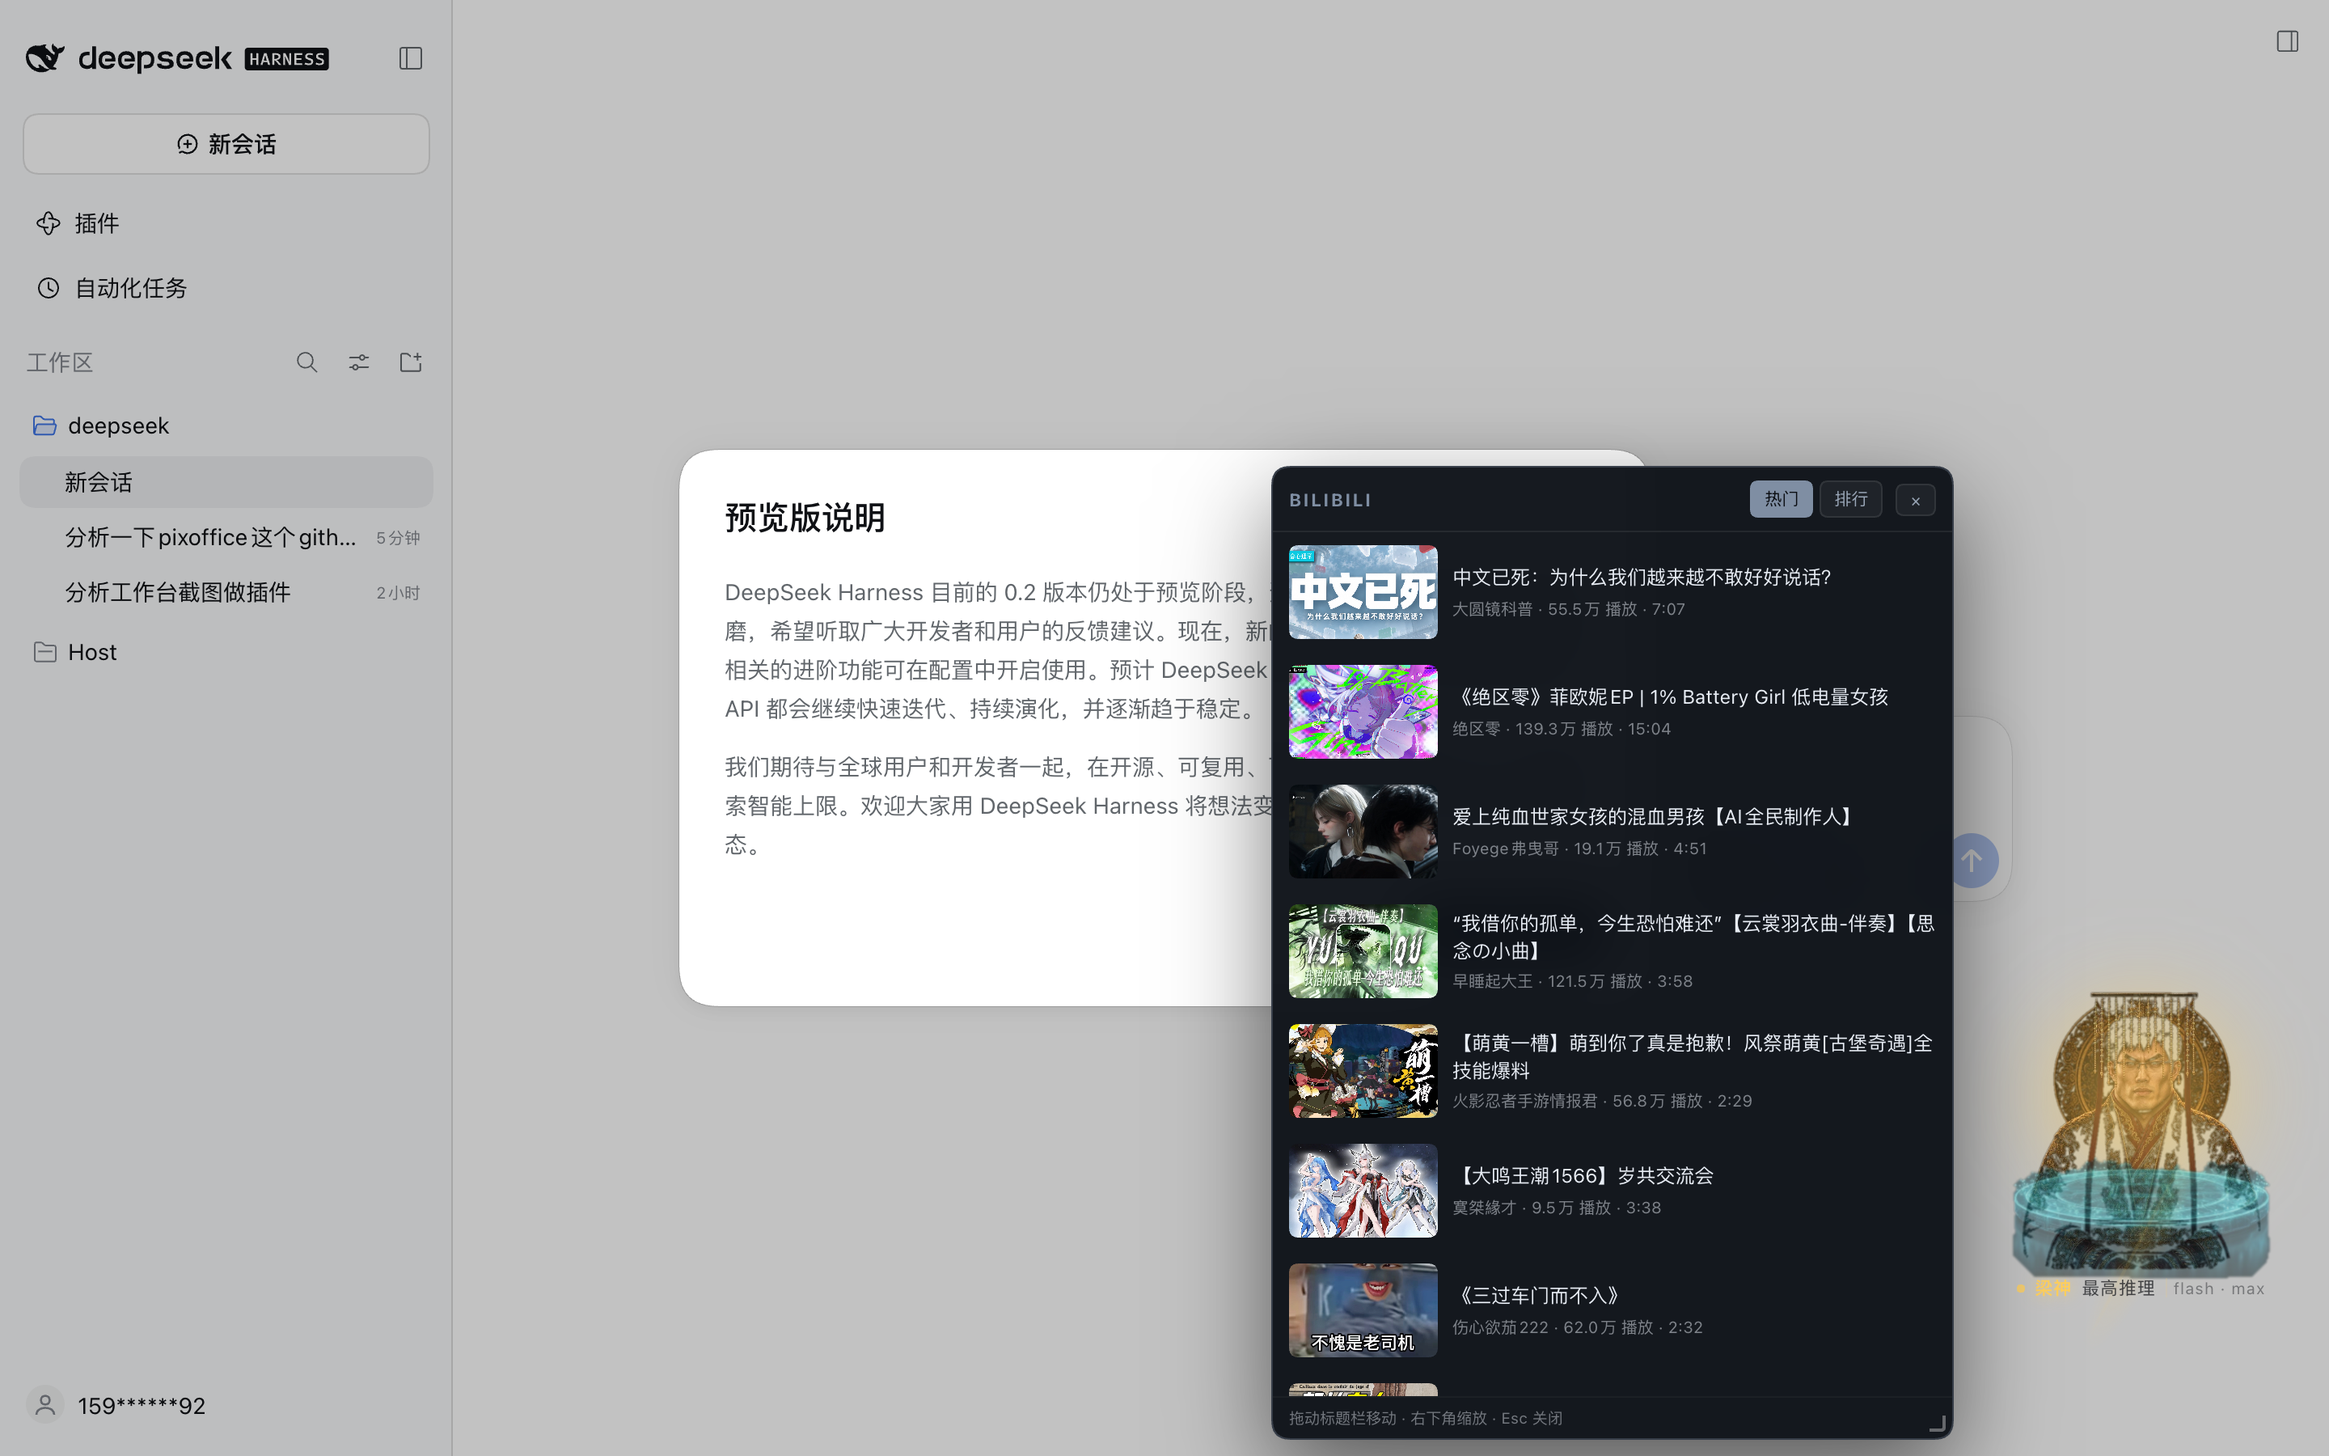
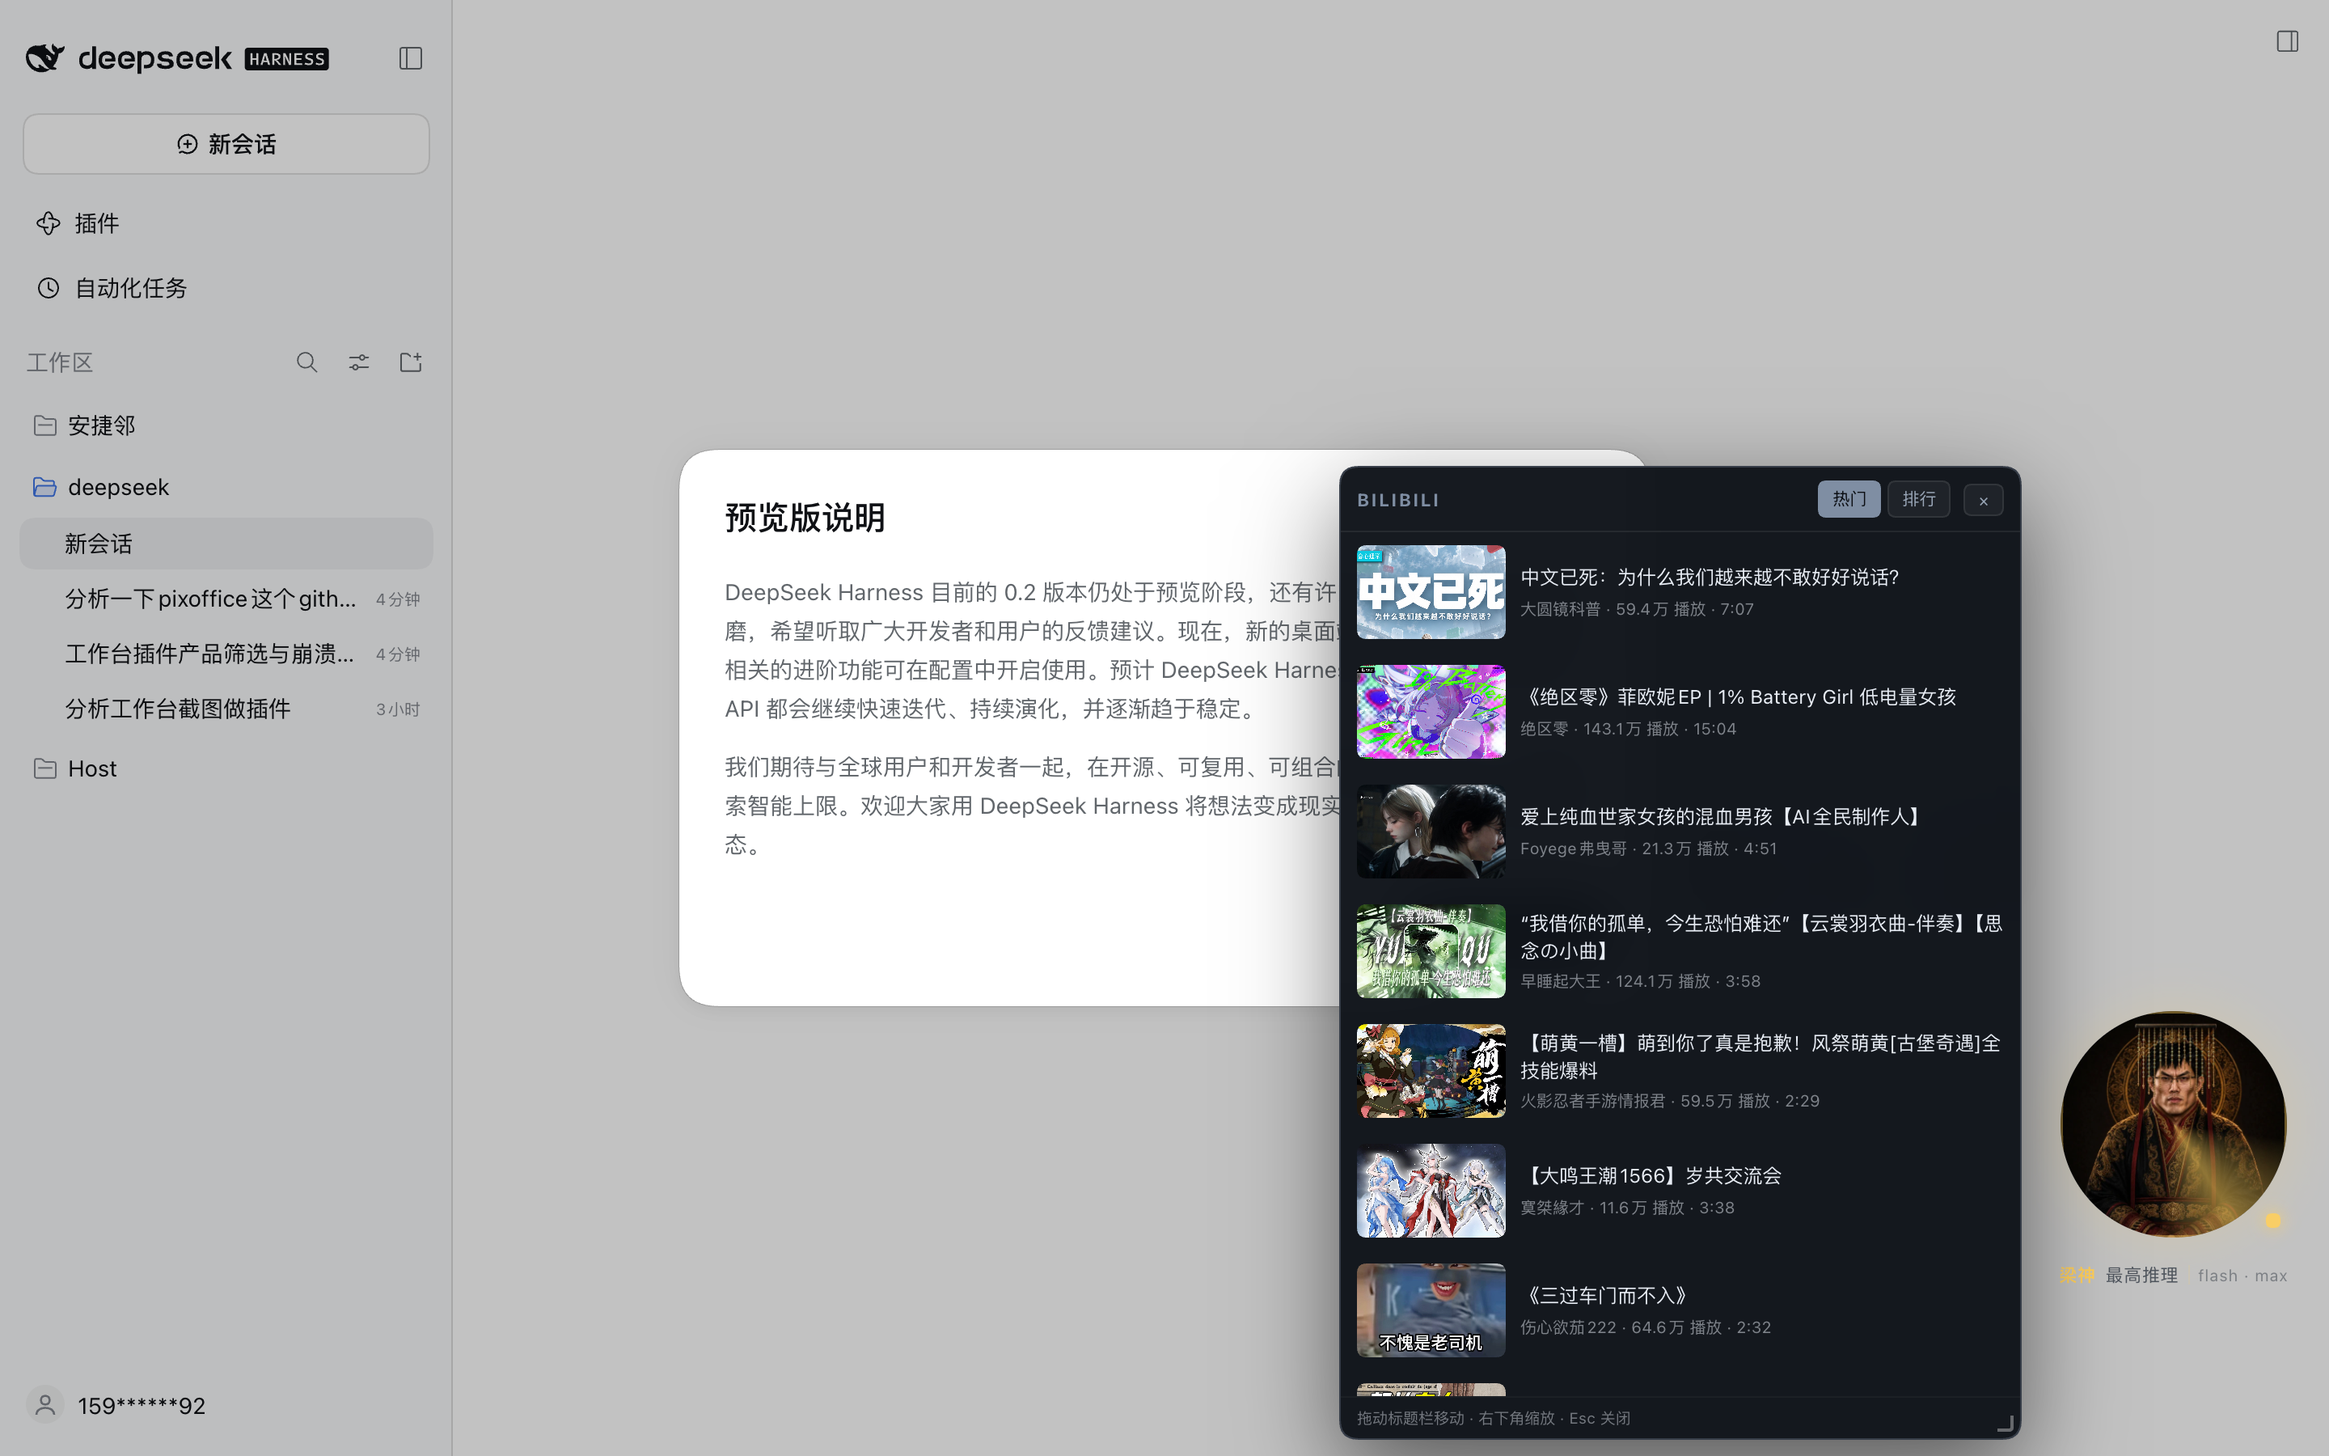
refactor: 桌宠改为圆形头像舱（orb）
- 不再抠图贴大立绘：原图方形裁进圆形（clip-path: circle），从根上消除毛边/背景方块/法轮被切成鸟笼
- 舱体动效：头像呼吸、舱内旋转扫光、外圈光晕呼吸、状态点闪烁、换形闪白+溶解
- 修复 border-radius 未裁到图片（角上仍见图片底色）的问题：改用 clip-path 强制圆形
- 移除会跑出圆外的 ring 伪元素，改为舱内被裁切的 conic 扫光
- 尺寸 152px、右下角固定，HUD 显示 名称/档位/模型·effort

Changed region(s): [[0.5312, 0.3111, 1.0, 1.0], [0.0312, 0.28, 0.1562, 0.4978]]

diff --git a/client/client.js b/client/client.js
@@ -37,7 +37,7 @@ window.__ModuleLoader__.load({
     var ROOT_ID = 'dsh-pet-liang-root'
     var POS_KEY = 'dsh-pet-liang:pos'
     /* 素材改了名字没变，加一个版本号强制浏览器重新取（宿主给的是 immutable 缓存） */
-    var ASSET_V = '10'
+    var ASSET_V = '16'
     var STYLE_ID = 'dsh-pet-liang-style'
 
     /** 四档推理等级对应的称呼与氛围色。 */
@@ -219,61 +219,60 @@ window.__ModuleLoader__.load({
     /* ────────────────────────── 样式 ────────────────────────── */
 
     var CSS = [
-      '#' + ROOT_ID + '{position:fixed;right:18px;bottom:96px;width:196px;z-index:2147483000;',
-      'font-family:ui-sans-serif,system-ui,"Segoe UI",sans-serif;color:var(--dsw-alias-label-primary,#e8edf5);',
-      'user-select:none;-webkit-user-select:none;pointer-events:auto;}',
-      '#' + ROOT_ID + '{touch-action:none;}',
-      '#' + ROOT_ID + ' .dpl-stage{position:relative;width:196px;height:196px;display:flex;align-items:flex-end;justify-content:center;cursor:grab;}',
-      '#' + ROOT_ID + '.is-dragging .dpl-stage{cursor:grabbing;}',
-      '#' + ROOT_ID + '.is-dragging .dpl-figure{animation-play-state:paused;}',
-      '#' + ROOT_ID + ' .dpl-aura{position:absolute;left:50%;bottom:34px;width:190px;height:150px;transform:translateX(-50%);',
-      'filter:blur(22px);opacity:.12;border-radius:50%;transition:background .6s ease,opacity .6s ease;}',
-      'body[data-ds-dark-theme] #' + ROOT_ID + ' .dpl-aura{opacity:.55;}',
-      'animation:dpl-breathe 4.2s ease-in-out infinite;}',
-                  '#' + ROOT_ID + '[data-working="1"] .dpl-figure{animation:dpl-breathe 1.9s ease-in-out infinite;}',
-            /* 梁神：透明底立绘，直接浮着（不画圆框、不加背景） */
-      '#' + ROOT_ID + '[data-character="liang"] .dpl-figure{width:auto;max-width:176px;max-height:176px;}',
-      '#' + ROOT_ID + ' .dpl-pedestal{position:absolute;left:50%;bottom:-6px;width:168px;transform:translateX(-50%);',
-      'pointer-events:none;opacity:.55;animation:dpl-ped-glow 5.4s ease-in-out infinite;}',
-      'body[data-ds-dark-theme] #' + ROOT_ID + ' .dpl-pedestal{opacity:.82;}',
-      '#' + ROOT_ID + ' .dpl-ring{position:absolute;left:50%;bottom:0;width:150px;height:28px;transform:translateX(-50%);',
-      'pointer-events:none;border-radius:50%;opacity:.24;',
-      'background:radial-gradient(ellipse at center,color-mix(in srgb,var(--dpl-aura) 68%,transparent) 0%,transparent 72%);',
-      'animation:dpl-ring-spin 5.5s linear infinite;}',
-      '#' + ROOT_ID + '[data-working="1"] .dpl-ring{opacity:.82;animation:dpl-ring-spin 1.8s linear infinite;}',
-      'body[data-ds-dark-theme] #' + ROOT_ID + ' .dpl-ring{opacity:.5;}',
-      'body[data-ds-dark-theme] #' + ROOT_ID + '[data-working="1"] .dpl-ring{opacity:.9;}',
-      '#' + ROOT_ID + ' .dpl-ring::after{content:"";position:absolute;left:4%;right:4%;top:36%;height:1.5px;border-radius:2px;',
-      'background:linear-gradient(90deg,transparent,var(--dpl-aura),transparent);opacity:.7;}',
-      '#' + ROOT_ID + ' .dpl-scan{position:absolute;left:50%;bottom:-8px;width:168px;height:186px;transform:translateX(-50%);',
-      'overflow:hidden;pointer-events:none;opacity:0;border-radius:50%;}',
-      '#' + ROOT_ID + ' .dpl-scan::after{content:"";position:absolute;left:0;width:100%;height:16px;filter:blur(4px);',
-      'background:linear-gradient(to bottom,transparent,var(--dpl-aura),transparent);opacity:.62;',
-      '-webkit-mask-image:linear-gradient(to right,transparent,#000 22%,#000 78%,transparent);',
-      'mask-image:linear-gradient(to right,transparent,#000 22%,#000 78%,transparent);}',
-      '#' + ROOT_ID + '.is-switching .dpl-scan{opacity:1;}',
-      '#' + ROOT_ID + '.is-switching .dpl-scan::after{animation:dpl-sweep .78s ease-in-out;}',
-      '#' + ROOT_ID + '.is-switching .dpl-figure{animation:dpl-swap .78s ease-in-out;}',
-      '#' + ROOT_ID + '.is-switching .dpl-aura{animation:dpl-flash .78s ease-in-out;}',
-      '#' + ROOT_ID + ' .dpl-hud{display:flex;align-items:center;gap:6px;justify-content:center;margin-top:2px;',
-      'font-size:11px;letter-spacing:.04em;}',
-      '#' + ROOT_ID + ' .dpl-name{font-weight:650;color:var(--dpl-aura);text-shadow:0 0 10px color-mix(in srgb,var(--dpl-aura) 60%,transparent);}',
-      '#' + ROOT_ID + ' .dpl-state{opacity:.72;}',
-      '#' + ROOT_ID + ' .dpl-model{max-width:92px;overflow:hidden;text-overflow:ellipsis;white-space:nowrap;',
-      'opacity:.42;font-size:10px;padding-left:4px;border-left:1px solid color-mix(in srgb,var(--dpl-aura) 30%,transparent);}',
-      '#' + ROOT_ID + ' .dpl-model[data-unknown="1"]{opacity:.6;color:#c98b3a;}',
-      '#' + ROOT_ID + ' .dpl-dot{width:5px;height:5px;border-radius:50%;background:var(--dpl-aura);opacity:.8;}',
-      '#' + ROOT_ID + '[data-working="1"] .dpl-dot{animation:dpl-blink 1.1s ease-in-out infinite;}',
-      '@keyframes dpl-breathe{0%,100%{transform:translateY(0)}50%{transform:translateY(-6px)}}',
-      '@keyframes dpl-pulse{0%,100%{opacity:.5;filter:blur(0)}50%{opacity:1;filter:blur(1px)}}',
-      '@keyframes dpl-ring-spin{0%{transform:translateX(-50%) rotate(0deg) scaleX(1)}50%{transform:translateX(-50%) rotate(180deg) scaleX(.84)}100%{transform:translateX(-50%) rotate(360deg) scaleX(1)}}',
-      '@keyframes dpl-ped-glow{0%,100%{opacity:.45;filter:blur(0px)}50%{opacity:.75;filter:blur(2px)}}',
-      '@keyframes dpl-spin{0%,100%{transform:translateX(-50%) scaleX(1) scaleY(1);opacity:.55}50%{transform:translateX(-50%) scaleX(1.06) scaleY(1.18);opacity:.95}}',
-      '@keyframes dpl-blink{0%,100%{opacity:.25}50%{opacity:1}}',
-      '@keyframes dpl-sweep{0%{top:-24px}100%{top:200px}}',
-      '@keyframes dpl-swap{0%{opacity:1;transform:translateY(0) scale(1);filter:blur(0)}35%{opacity:.18;transform:translateY(-4px) scale(1.07);filter:blur(3px)}',
-      '62%{opacity:0;transform:translateY(6px) scale(.93);filter:blur(6px)}100%{opacity:1;transform:translateY(0) scale(1);filter:blur(0)}}',
-      '@keyframes dpl-flash{0%,100%{opacity:.55}46%{opacity:1;filter:blur(26px)}}',
+      '#' + ROOT_ID + '{position:fixed;right:20px;bottom:104px;width:152px;z-index:2147483000;',
+      'font-family:ui-sans-serif,system-ui,"Segoe UI",sans-serif;color:#e8edf5;',
+      'user-select:none;-webkit-user-select:none;pointer-events:auto;touch-action:none;}',
+      'body:not([data-ds-dark-theme]) #' + ROOT_ID + '{color:#1b2430;}',
+
+      '#' + ROOT_ID + ' .orb{position:relative;width:152px;height:152px;cursor:grab;}',
+      '#' + ROOT_ID + '.is-dragging .orb{cursor:grabbing;}',
+
+      '#' + ROOT_ID + ' .orb-glow{position:absolute;inset:-16px;border-radius:50%;pointer-events:none;z-index:0;',
+      'background:radial-gradient(circle at 50% 50%,color-mix(in srgb,var(--dpl-aura) 55%,transparent) 0%,transparent 68%);',
+      'filter:blur(10px);opacity:.35;animation:orb-glow 4.6s ease-in-out infinite;}',
+      '#' + ROOT_ID + '[data-working="1"] .orb-glow{opacity:.72;animation-duration:1.8s;}',
+
+      '#' + ROOT_ID + ' .orb-ring{position:absolute;inset:6px;border-radius:50%;z-index:2;pointer-events:none;overflow:hidden;',
+      '-webkit-clip-path:circle(50% at 50% 50%);clip-path:circle(50% at 50% 50%);',
+      'box-shadow:inset 0 0 0 1.5px color-mix(in srgb,var(--dpl-aura) 42%,transparent);}',
+      '#' + ROOT_ID + ' .orb-ring::before{content:"";position:absolute;inset:-60%;',
+      'background:conic-gradient(from 0deg,transparent 0deg,transparent 250deg,',
+      'color-mix(in srgb,var(--dpl-aura) 55%,transparent) 300deg,transparent 340deg,transparent 360deg);',
+      'animation:orb-spin 5.2s linear infinite;}',
+      '#' + ROOT_ID + '[data-working="1"] .orb-ring::before{animation-duration:1.4s;}',
+
+      '#' + ROOT_ID + ' .orb-face{position:absolute;inset:6px;border-radius:50%;overflow:hidden;z-index:1;',
+      '-webkit-clip-path:circle(50% at 50% 50%);clip-path:circle(50% at 50% 50%);',
+      'background:radial-gradient(circle at 50% 30%,#1d2633 0%,#0a0d12 78%);',
+      'box-shadow:inset 0 0 22px rgba(0,0,0,.75),0 8px 22px rgba(0,0,0,.28);}',
+      'body:not([data-ds-dark-theme]) #' + ROOT_ID + ' .orb-face{background:radial-gradient(circle at 50% 30%,#f4f7fb 0%,#dfe6ef 80%);',
+      'box-shadow:inset 0 0 18px rgba(0,0,0,.12),0 8px 20px rgba(0,0,0,.15);}',
+
+      '#' + ROOT_ID + ' .orb-img{width:100%;height:100%;object-fit:cover;object-position:50% 18%;border-radius:50%;',
+      '#' + ROOT_ID + '[data-character="moss"] .orb-img{object-position:50% 46%;}',
+      'animation:orb-breathe 4.6s ease-in-out infinite;transform-origin:50% 60%;}',
+      '#' + ROOT_ID + '[data-working="1"] .orb-img{animation-duration:1.7s;}',
+
+      '#' + ROOT_ID + ' .orb-dot{position:absolute;right:10px;bottom:12px;width:9px;height:9px;border-radius:50%;z-index:3;',
+      'background:var(--dpl-aura);box-shadow:0 0 10px var(--dpl-aura);opacity:.9;}',
+      '#' + ROOT_ID + '[data-working="1"] .orb-dot{animation:orb-blink 1.1s ease-in-out infinite;}',
+
+      '#' + ROOT_ID + ' .hud{display:flex;align-items:center;justify-content:center;gap:6px;margin-top:9px;font-size:11px;letter-spacing:.03em;}',
+      '#' + ROOT_ID + ' .name{font-weight:700;color:var(--dpl-aura);}',
+      '#' + ROOT_ID + ' .state{opacity:.7;}',
+      '#' + ROOT_ID + ' .model{max-width:86px;overflow:hidden;text-overflow:ellipsis;white-space:nowrap;opacity:.42;font-size:10px;',
+      'padding-left:5px;border-left:1px solid color-mix(in srgb,var(--dpl-aura) 30%,transparent);}',
+      '#' + ROOT_ID + ' .model[data-unknown="1"]{opacity:.65;color:#c98b3a;}',
+
+      '#' + ROOT_ID + '.is-switching .orb-img{animation:orb-swap .72s ease-in-out;}',
+      '#' + ROOT_ID + '.is-switching .orb-ring{animation:orb-flash .72s ease-in-out;}',
+
+      '@keyframes orb-breathe{0%,100%{transform:scale(1) translateY(0)}50%{transform:scale(1.035) translateY(-2px)}}',
+      '@keyframes orb-glow{0%,100%{opacity:.3;transform:scale(1)}50%{opacity:.62;transform:scale(1.06)}}',
+      '@keyframes orb-spin{to{transform:rotate(360deg)}}',
+      '@keyframes orb-blink{0%,100%{opacity:.35}50%{opacity:1}}',
+      '@keyframes orb-swap{0%{opacity:1;filter:blur(0)}40%{opacity:.15;filter:blur(4px)}70%{opacity:0;filter:blur(8px)}100%{opacity:1;filter:blur(0)}}',
+      '@keyframes orb-flash{0%,100%{filter:brightness(1)}45%{filter:brightness(2.2)}}',
     ].join('')
 
     function ensureStyle() {
@@ -404,37 +403,32 @@ window.__ModuleLoader__.load({
       root.setAttribute('data-character', 'moss')
       root.setAttribute('data-working', '0')
 
-      var stage = el('div', 'dpl-stage')
-      var aura = el('div', 'dpl-aura')
-      var figure = el('img', 'dpl-figure')
+      var orb = el('div', 'orb')
+      var glow = el('div', 'orb-glow')
+      var ring = el('div', 'orb-ring')
+      var face = el('div', 'orb-face')
+      var figure = el('img', 'orb-img')
       figure.src = assetUrl('moss-idle.webp')
       figure.alt = ''
       figure.draggable = false
       figure.setAttribute('data-asset', 'moss-idle.webp')
       figure.setAttribute('data-char', 'moss')
-      var pedestal = el('img', 'dpl-pedestal')
-      pedestal.src = assetUrl('holo-pedestal.webp')
-      pedestal.alt = ''
-      pedestal.draggable = false
-      var ring = el('div', 'dpl-ring')
-      var scan = el('div', 'dpl-scan')
-      stage.appendChild(aura)
-      stage.appendChild(pedestal)
-      stage.appendChild(ring)
-      stage.appendChild(figure)
-      stage.appendChild(scan)
+      var dot = el('span', 'orb-dot')
+      face.appendChild(figure)
+      orb.appendChild(glow)
+      orb.appendChild(ring)
+      orb.appendChild(face)
+      orb.appendChild(dot)
 
-      var hud = el('div', 'dpl-hud')
-      var dot = el('span', 'dpl-dot')
-      var nameNode = el('span', 'dpl-name', 'MOSS')
-      var stateNode = el('span', 'dpl-state', '空闲')
-      var modelNode = el('span', 'dpl-model', '')
-      hud.appendChild(dot)
+      var hud = el('div', 'hud')
+      var nameNode = el('span', 'name', 'MOSS')
+      var stateNode = el('span', 'state', '空闲')
+      var modelNode = el('span', 'model', '')
       hud.appendChild(nameNode)
       hud.appendChild(stateNode)
       hud.appendChild(modelNode)
 
-      root.appendChild(stage)
+      root.appendChild(orb)
       root.appendChild(hud)
 
       /* 点击判定放在 root 上：pointer capture 会把 click 重定向到捕获元素，
@@ -485,11 +479,11 @@ window.__ModuleLoader__.load({
         (state.provider ? ' · ' + state.provider : '') +
         (state.character === 'liang' ? ' · ' + state.title : ' · MOSS')
 
-      var figure = overlay.querySelector('.dpl-figure')
-      var nameNode = overlay.querySelector('.dpl-name')
-      var stateNode = overlay.querySelector('.dpl-state')
-      var modelNode = overlay.querySelector('.dpl-model')
-      var aura = overlay.querySelector('.dpl-aura')
+      var figure = overlay.querySelector('.orb-img')
+      var nameNode = overlay.querySelector('.name')
+      var stateNode = overlay.querySelector('.state')
+      var modelNode = overlay.querySelector('.model')
+      var aura = overlay.querySelector('.orb-glow')
 
       if (nameNode) nameNode.textContent = state.title
       if (stateNode) stateNode.textContent = state.subtitle
